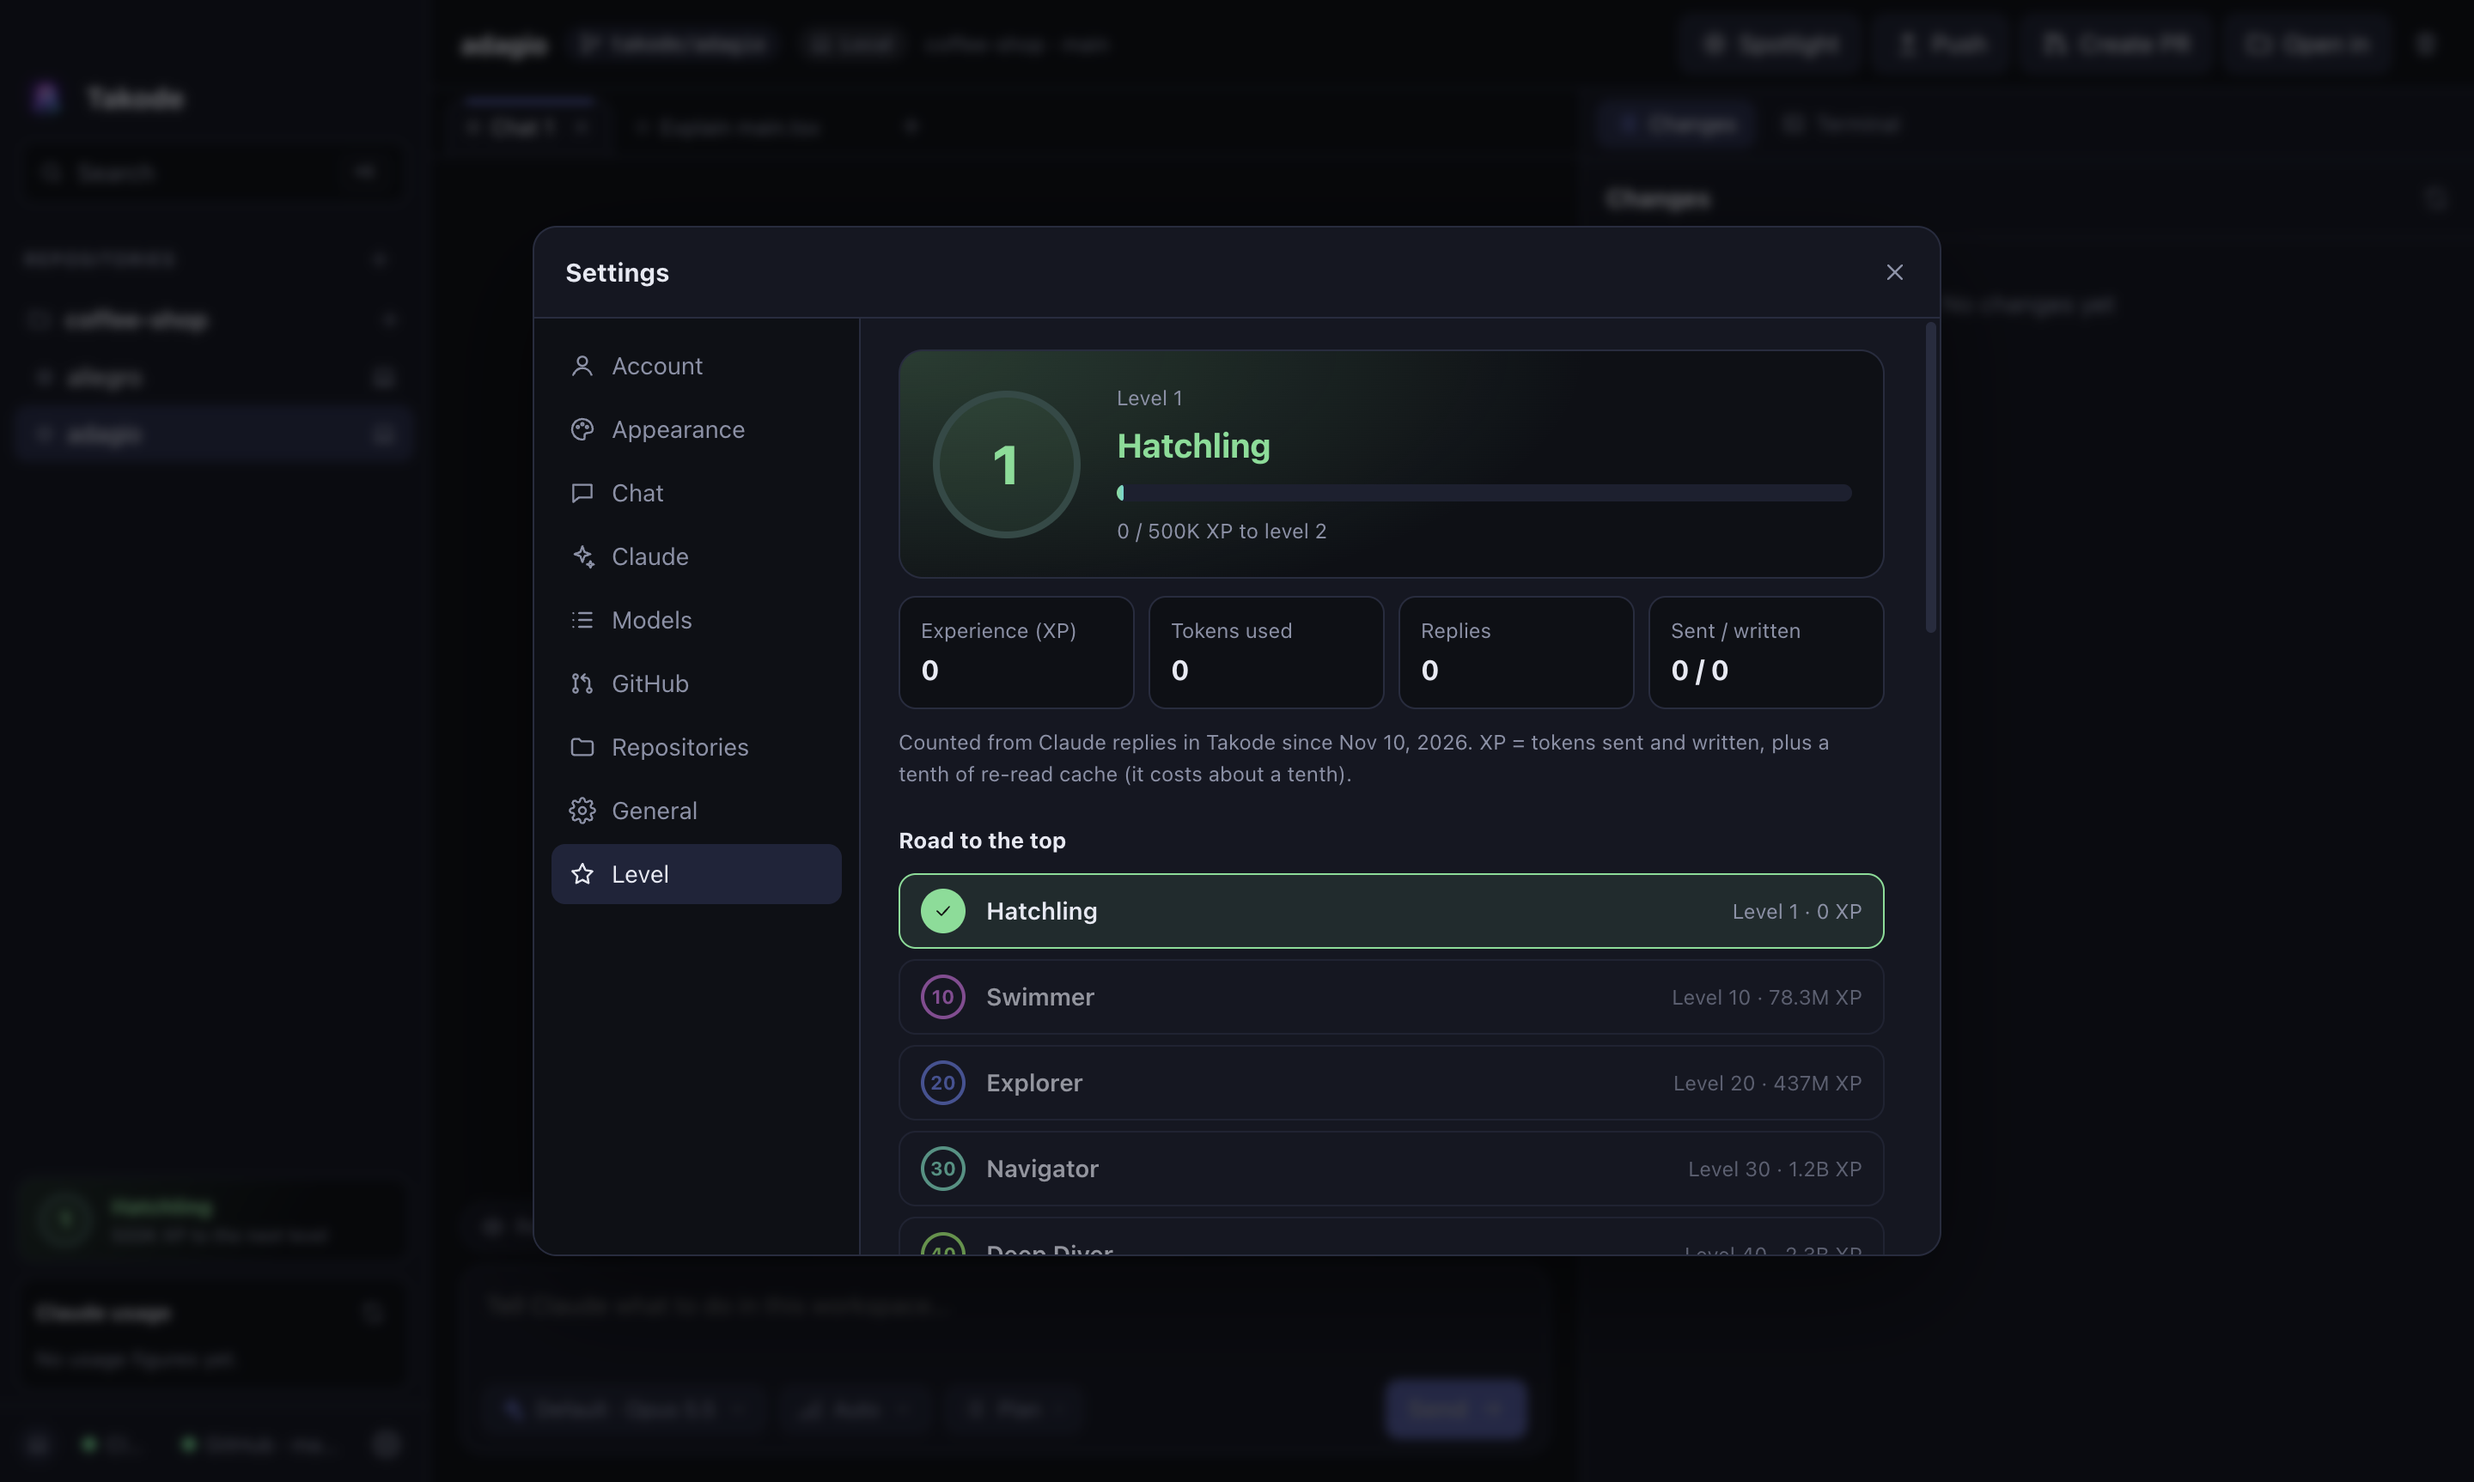
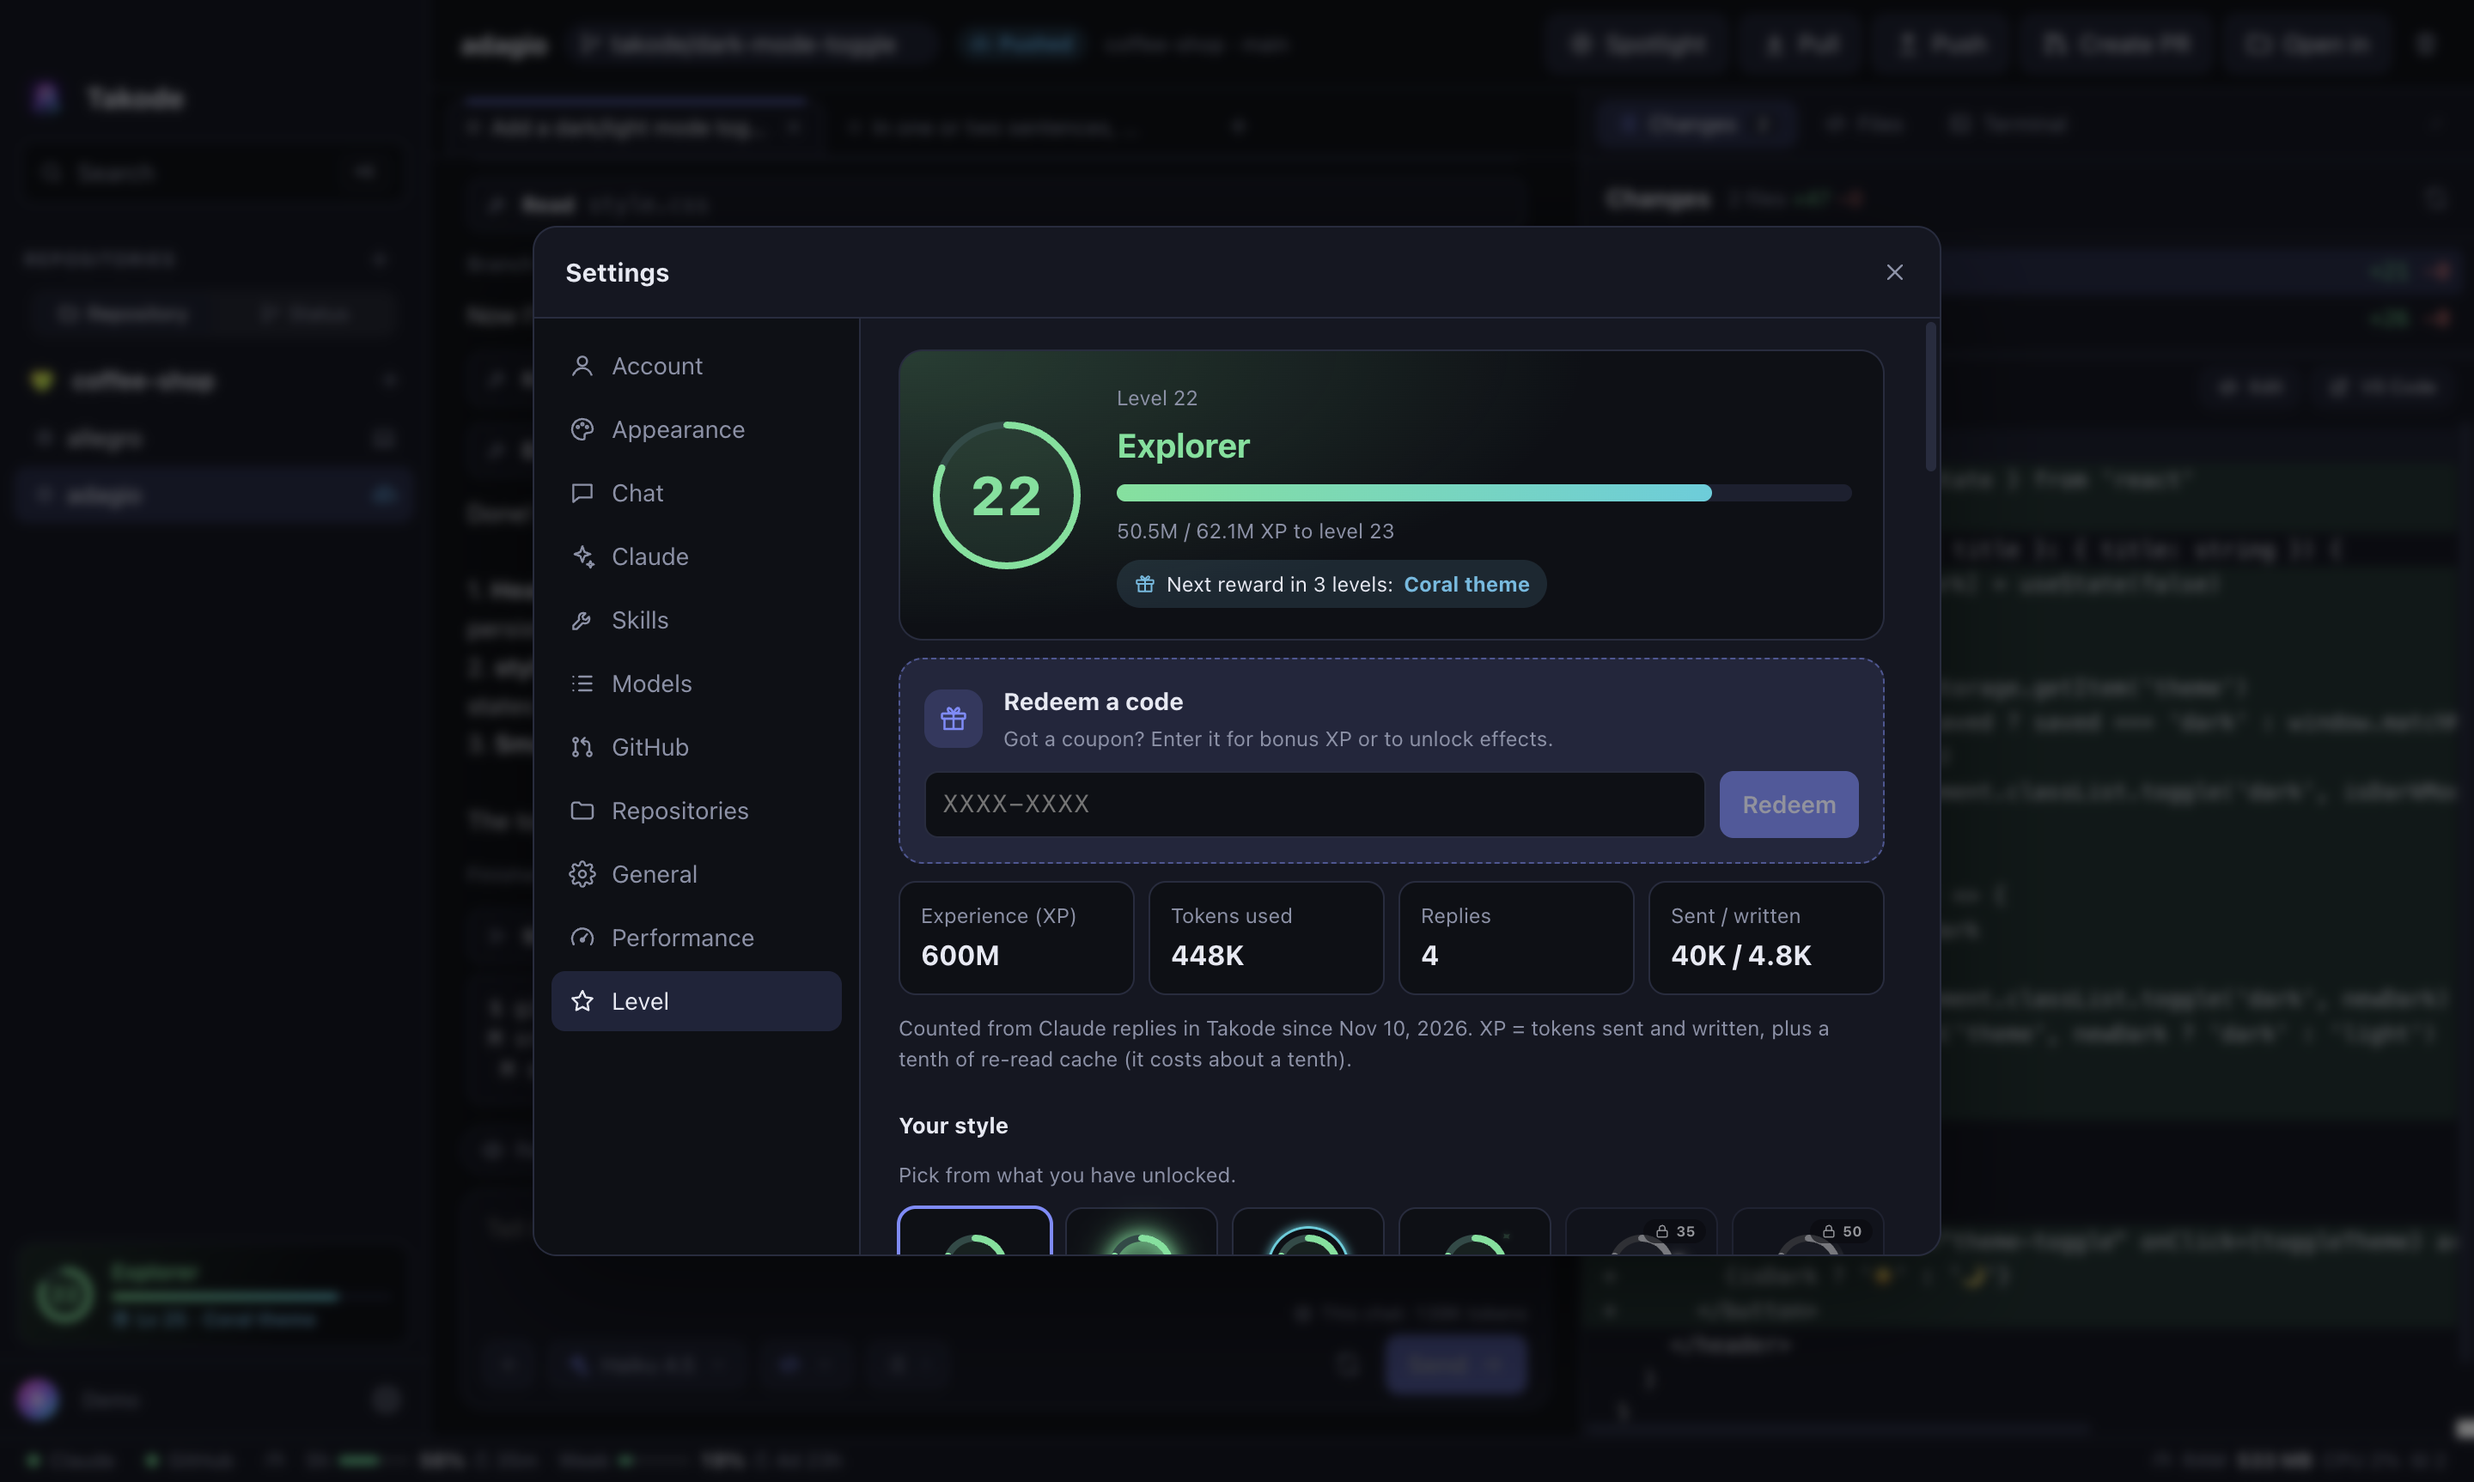
Retake the README screenshots for the current app
Add the code editor screenshot, use a demo account so levels show, and run the screenshot chats on Haiku.

diff --git a/src/main/shots.ts b/src/main/shots.ts
@@ -31,7 +31,9 @@ export async function runShots(win: BrowserWindow, actions: Actions, getState: (
     win.setContentSize(1440, 900)
     await sleep(1200)
 
-    await actions['settings:update']({ language: 'th', theme: 'midnight', permissionMode: 'acceptEdits' })
+    // Haiku keeps the Claude usage of a screenshot run small.
+    await actions['settings:update']({ language: 'th', theme: 'midnight', permissionMode: 'acceptEdits', model: 'haiku', pauseUnfocused: false })
+    // (The screenshot window stays in the background, so animations must not pause there.)
     await js('window.__takode.select(null)')
     // The login screen, in both languages, then carry on without an account.
     await actions['auth:logout']()
@@ -40,7 +42,11 @@ export async function runShots(win: BrowserWindow, actions: Actions, getState: (
     await actions['settings:update']({ language: 'en' })
     await shot('login-en')
     await actions['settings:update']({ language: 'th' })
-    await actions['auth:guest']()
+    // A demo account (nothing is sent anywhere), so levels and rewards show as they do for a signed-in user.
+    const state = getState()
+    state.auth = { mode: 'account', server: 'https://api.example.com', account: { id: 'demo', name: 'Demo', email: 'you@example.com' } }
+    state.stats.xp = 600_000_000
+    await actions['settings:update']({})
     await shot('welcome-th')
     await actions['settings:update']({ language: 'en' })
     await shot('welcome-en')
@@ -164,6 +170,10 @@ export async function runShots(win: BrowserWindow, actions: Actions, getState: (
       await shot(`terminal-${lang}`)
       const shown = (await actions['term:open'](spaces[lang].id, 80, 24)) as string
       console.log(`CHECK terminal (${lang}): ran git=${shown.includes('Initial commit')} in workspace=${shown.includes('index.html')}`)
+      // The built-in editor with a file Claude just changed.
+      await js(`window.dispatchEvent(new CustomEvent('takode:open-file', { detail: { wsId: ${JSON.stringify(spaces[lang].id)}, path: 'src/Header.tsx', line: 3 } }))`)
+      await sleep(1200)
+      await shot(`editor-${lang}`)
       await js(`document.querySelector('.side-tabs button').click()`)
 
       await actions['spotlight:on'](spaces[lang].id)
@@ -179,10 +189,10 @@ export async function runShots(win: BrowserWindow, actions: Actions, getState: (
         version: '0.2.0',
         name: 'Takode 0.2.0',
         publishedAt: '2026-11-10T04:00:00Z',
-        pageUrl: 'https://github.com/madara1150/multi-tasker/releases',
+        pageUrl: 'https://github.com/madara1150/takode/releases',
         notes: lang === 'th'
-          ? '## ฟีเจอร์ใหม่\n- **อัปเดตในคลิกเดียว** จากหน้าต่างนี้\n- ไอคอนสถานะ branch ในแถบซ้าย\n- แสดงโควตา Claude และเวลารีเซ็ต\n\n## แก้ไข\n- รายการ model แสดงเวอร์ชันจริง เช่น `Opus 5.5`'
-          : '## New features\n- **Update in one click** from this window\n- Branch status icons in the sidebar\n- Claude usage with reset times\n\n## Fixes\n- The model list shows real versions, like `Opus 5.5`',
+          ? '## ฟีเจอร์ใหม่\n- **แก้โค้ดเองในแอป** พร้อมเปิดใน VS Code\n- โหมด **ถามทุกครั้ง** ก่อน Claude แก้ไฟล์หรือรันคำสั่ง\n- แถบสถานะด้านล่าง: โควตา Claude และแรม\n\n## แก้ไข\n- เปลี่ยนชื่อ branch จากแชทได้'
+          : '## New features\n- **Edit code by hand** in the app, or open it in VS Code\n- **Ask every time** mode before Claude edits files or runs commands\n- Status bar with Claude limits and memory use\n\n## Fixes\n- Renaming a branch from the chat now works',
         asset: { name: 'Takode-macOS.dmg', url: 'https://example.invalid', size: 1 }
       })})`)
       await shot(`update-${lang}`)
@@ -196,7 +206,7 @@ export async function runShots(win: BrowserWindow, actions: Actions, getState: (
       await js(`window.__takode.setModal({ type: 'settings', tab: 'level' })`)
       await shot(`level-${lang}`)
       await js('window.__takode.setModal(null)')
-      await js('window.__takode.setLevelUp(5)')
+      await js('window.__takode.setLevelUp(20)')
       await shot(`levelup-${lang}`)
       await js('window.__takode.setLevelUp(null)')
       await js(`window.__takode.setModal({ type: 'settings', tab: 'models' })`)

diff --git a/README.md b/README.md
@@ -70,11 +70,13 @@
   <br><br>
   <img src="docs/screenshots/login-en.png" width="900" alt="Sign-in screen">
   <br><br>
-  <img src="docs/screenshots/level-en.png" width="900" alt="Level page with progress, token totals and the road to level 25">
+  <img src="docs/screenshots/level-en.png" width="900" alt="Level page with progress, rewards and the road to level 100">
   <br><br>
   <img src="docs/screenshots/chat-settings-en.png" width="900" alt="Chat settings: send key, message style, tool calls, tokens and notifications">
   <br><br>
   <img src="docs/screenshots/terminal-en.png" width="900" alt="Two chat tabs and the terminal in the right panel">
+  <br><br>
+  <img src="docs/screenshots/editor-en.png" width="900" alt="The built-in code editor in the right panel">
   <br><br>
   <img src="docs/screenshots/update-en.png" width="900" alt="Update window showing the new version and what's new">
   <br><br>
@@ -215,11 +217,13 @@ Layout: `src/main` (Electron: git, GitHub, Claude) · `src/renderer` (React UI) 
   <br><br>
   <img src="docs/screenshots/login-th.png" width="900" alt="หน้าเข้าสู่ระบบ">
   <br><br>
-  <img src="docs/screenshots/level-th.png" width="900" alt="หน้าเลเวล แสดงความคืบหน้า ยอด token และเส้นทางถึงเลเวล 25">
+  <img src="docs/screenshots/level-th.png" width="900" alt="หน้าเลเวล แสดงความคืบหน้า รางวัล และเส้นทางถึงเลเวล 100">
   <br><br>
   <img src="docs/screenshots/chat-settings-th.png" width="900" alt="ตั้งค่าแชท: ปุ่มส่ง รูปแบบข้อความ การแสดง tool token และการแจ้งเตือน">
   <br><br>
   <img src="docs/screenshots/terminal-th.png" width="900" alt="แชทสอง tab และ terminal ในแผงขวา">
+  <br><br>
+  <img src="docs/screenshots/editor-th.png" width="900" alt="ช่องแก้โค้ดในแผงขวา">
   <br><br>
   <img src="docs/screenshots/update-th.png" width="900" alt="หน้าต่างอัปเดต แสดงเวอร์ชันใหม่และสิ่งที่เปลี่ยน">
   <br><br>
